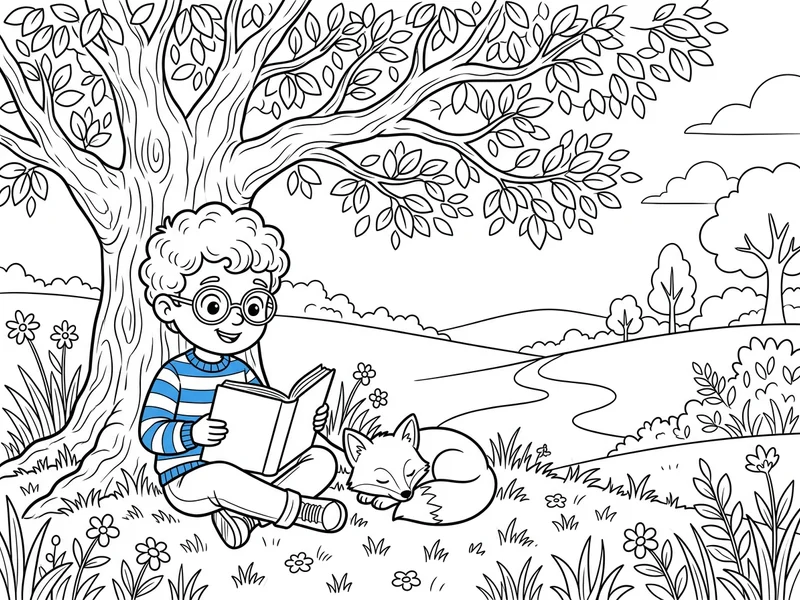
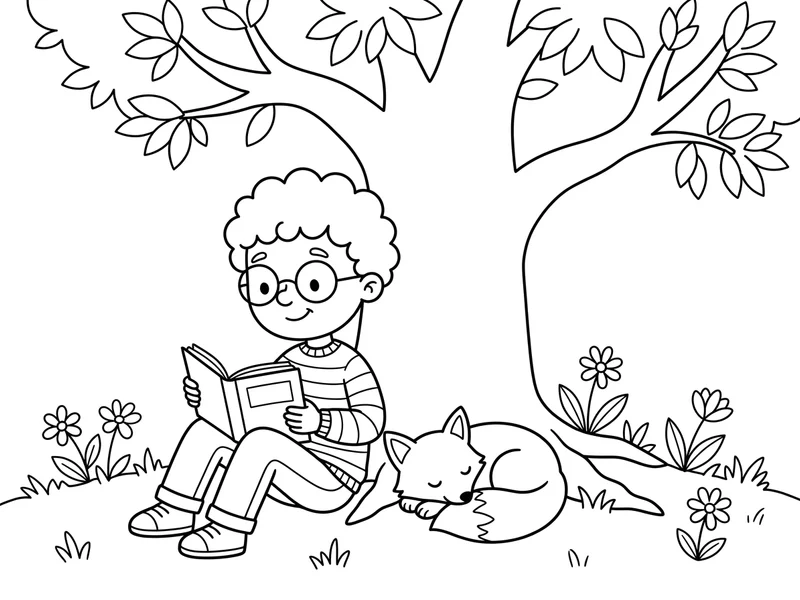
Estilo Novela gráfica + muestras del selector con el prompt de los libros (DECISIONS 266)
Claude-Session: https://claude.ai/code/session_01PcRD3vGDdpQyN2hiqmykvK

diff --git a/packages/shared/src/models/art-direction.ts b/packages/shared/src/models/art-direction.ts
@@ -68,7 +68,7 @@ export function ageDirection(age: number): string {
     return 'For ages 3-5: rounded proportions (head about a quarter of the body), expressive characters, a limited palette, the child plus one or two elements of the theme and one clear action per scene.';
   }
   if (age <= 8) {
-    return 'For ages 6-8: taller proportions (head about a fifth of the body), diagonal dynamic compositions, the child in motion, humor and memorable secondary characters, always in the chosen art style (never comic panels, speech bubbles or comic-book inking).';
+    return 'For ages 6-8: taller proportions (head about a fifth of the body), diagonal dynamic compositions, the child in motion, humor and memorable secondary characters, always in the chosen art style (never comic panels or speech bubbles).';
   }
   // Sin técnica (antes «tinta firme y color plano»): peleaba con el estilo elegido. La técnica la
   // define el estilo; la edad, las proporciones, el encuadre y el tono.
@@ -95,6 +95,10 @@ const STYLE_MEDIUM: Record<string, string> = {
     'traditional watercolor: transparent washes, soft wet edges, gentle color blooms and visible paper texture; never opaque paint or ink line art',
   'para-colorear':
     'black and white coloring book line art: clean closed outlines, no fills, no shading, no gray',
+  // Para 9-12 (estudio de mercado y mesa, DECISIONS 266): estilo propio en vez de «toques de
+  // historieta» mezclados en los demás estilos.
+  'novela-grafica':
+    'bold contemporary graphic novel art for middle-grade readers: thick confident black ink outlines, spotted solid blacks, flat color fields with hard-edged cel shadows, slightly stylized proportions with expressive eyes and dynamic low or high camera angles; clearly a comic-book look, not a painted storybook; one single full-page image, never panels or speech bubbles',
   'gouache-editorial':
     'traditional editorial gouache: matte pigment, irregular brush strokes, opaque layers and a controlled palette; faces slightly angular and individual, never overly round',
 };
@@ -202,7 +206,7 @@ const LEGACY_TECHNIQUE: readonly (readonly [string, string])[] = [
   ],
   [
     'humor, comic-book touches such as motion lines and the occasional panel, and memorable secondary characters.',
-    'humor and memorable secondary characters, always in the chosen art style (never comic panels, speech bubbles or comic-book inking).',
+    'humor and memorable secondary characters, always in the chosen art style (never comic panels or speech bubbles).',
   ],
   [
     'warm and harmonious like printed paint, slightly softened',

diff --git a/firebase/seed-data/catalog.ts b/firebase/seed-data/catalog.ts
@@ -1976,6 +1976,17 @@ export const SEED_STYLES: SeedStyle[] = [
     contentTypes: ['story', 'activities', 'story_activities'],
   },
   {
+    // Para 9-12 (DECISIONS 266): lo que leen a esa edad; recomendado para las historias de 9+.
+    slug: 'novela-grafica',
+    active: true,
+    order: 9,
+    name: { es: 'Novela gráfica', en: 'Graphic novel', pt: 'Romance gráfico' },
+    promptModifier:
+      'bold contemporary graphic novel art for middle-grade readers, thick confident black ink outlines, spotted solid blacks, flat color fields with hard-edged cel shadows, slightly stylized proportions, dynamic camera angles, clearly a comic-book look rather than a painted storybook, one single full-page image without panels or speech bubbles',
+    sampleImage: '/styles/novela-grafica.webp',
+    contentTypes: ['story', 'activities', 'story_activities'],
+  },
+  {
     slug: 'lapices-de-colores',
     active: true,
     order: 5,

diff --git a/packages/shared/src/models/catalog.ts b/packages/shared/src/models/catalog.ts
@@ -192,7 +192,7 @@ export function coverLayoutOf(story: { ageMin: number; ageMax: number }): CoverL
 /**
  * Estilo recomendado por etapa y línea (estudio de estilos, DECISIONS 158): bebés con color saturado y
  * formas simples (collage), 3–5 y 6–8 en gouache (6–8 con recursos de historieta en la dirección de arte),
- * 9+ con tinta y color plano (cuento clásico, hasta tener el estilo de novela gráfica). Profesionales
+ * 9+ en novela gráfica (DECISIONS 266). Profesionales
  * usa siempre el minimalismo gráfico.
  */
 export function recommendedStyle(story: {
@@ -203,7 +203,7 @@ export function recommendedStyle(story: {
   if (story.channels[0] === 'professionals') return 'minimalismo-grafico';
   const stage = stageOf(story);
   if (stage === 'babies') return 'gouache-editorial';
-  if (stage === 'big') return 'cuento-clasico';
+  if (stage === 'big') return 'novela-grafica';
   return 'gouache-editorial';
 }
 

diff --git a/packages/providers/scripts/generate-brand-images.ts b/packages/providers/scripts/generate-brand-images.ts
@@ -627,6 +627,10 @@ const JOBS: Job[] = [
     'classic narrative editorial illustration, ink line and opaque paint with moderate texture, believable gestures, warm vintage tones',
   ),
   style(
+    'novela-grafica',
+    'bold contemporary graphic novel art for middle-grade readers, thick confident black ink outlines, spotted solid blacks, flat color fields with hard-edged cel shadows, slightly stylized proportions, dynamic camera angles, clearly a comic-book look rather than a painted storybook, one single full-page image without panels or speech bubbles',
+  ),
+  style(
     'lapices-de-colores',
     'colored pencil drawing, imperfect human lines, visible strokes, paper grain and deliberately incomplete coloring',
   ),

diff --git a/packages/shared/src/models/catalog.test.ts b/packages/shared/src/models/catalog.test.ts
@@ -65,7 +65,7 @@ describe('recommendedStyle', () => {
       'gouache-editorial',
     );
     expect(recommendedStyle({ channels: ['families'], ageMin: 9, ageMax: 12 })).toBe(
-      'cuento-clasico',
+      'novela-grafica',
     );
     expect(
       recommendedStyle({ channels: ['professionals', 'families'], ageMin: 0, ageMax: 2 }),

diff --git a/packages/shared/src/models/art-direction.test.ts b/packages/shared/src/models/art-direction.test.ts
@@ -76,6 +76,7 @@ describe('dirección de arte de los libros', () => {
     'collage-papel',
     'minimalismo-grafico',
     'gouache-editorial',
+    'novela-grafica',
   ];
   const FOREIGN_TECHNIQUE = [
     'comic-book touches',

diff --git a/docs/DECISIONS.md b/docs/DECISIONS.md
@@ -2834,3 +2834,7 @@ Sebas, 18 nov 2026: «¿podrías asegurar que cada prompt usa el estilo que sele
 - **Muestras del selector:** `generate-brand-images.ts` arma las muestras de estilo con la misma dirección de arte y el mismo modificador que los libros (antes cada una tenía su frase y no se parecía al libro).
 - **Texto:** el cuento nunca se narra en segunda persona (nada de «tú/vos/you» fuera de un diálogo; tercera persona o primera con la voz del protagonista). Las imágenes dejan en blanco lomos de libros, carteles, etiquetas y ropa.
 - **Tests:** `art-direction.test.ts` falla si alguna edad o estilo mete otra técnica; el test de la API «candado de estilo» falla si alguna imagen del libro sale sin el estilo elegido.
+
+## 266 — Estilo «Novela gráfica» para 9 a 12
+
+Sebas, 18 nov 2026 («1 estilo propio ok»): la mesa y el estudio de mercado (Amazon, 5 nov) muestran que de 9 a 12 se lee novela gráfica. Antes eso entraba como «toques de historieta» en la dirección de arte de 6-8 y se mezclaba con cualquier estilo (DECISIONS 265). Ahora es un estilo propio (`novela-grafica`): tinta segura de grosor variable, color plano con sombreado suave y encuadres de cine, siempre una sola imagen por página, sin viñetas ni globos. Es el recomendado para las historias de 9+ (antes Cuento clásico). Su muestra del selector sale de `generate-brand-images.ts` con el mismo prompt que los libros.
